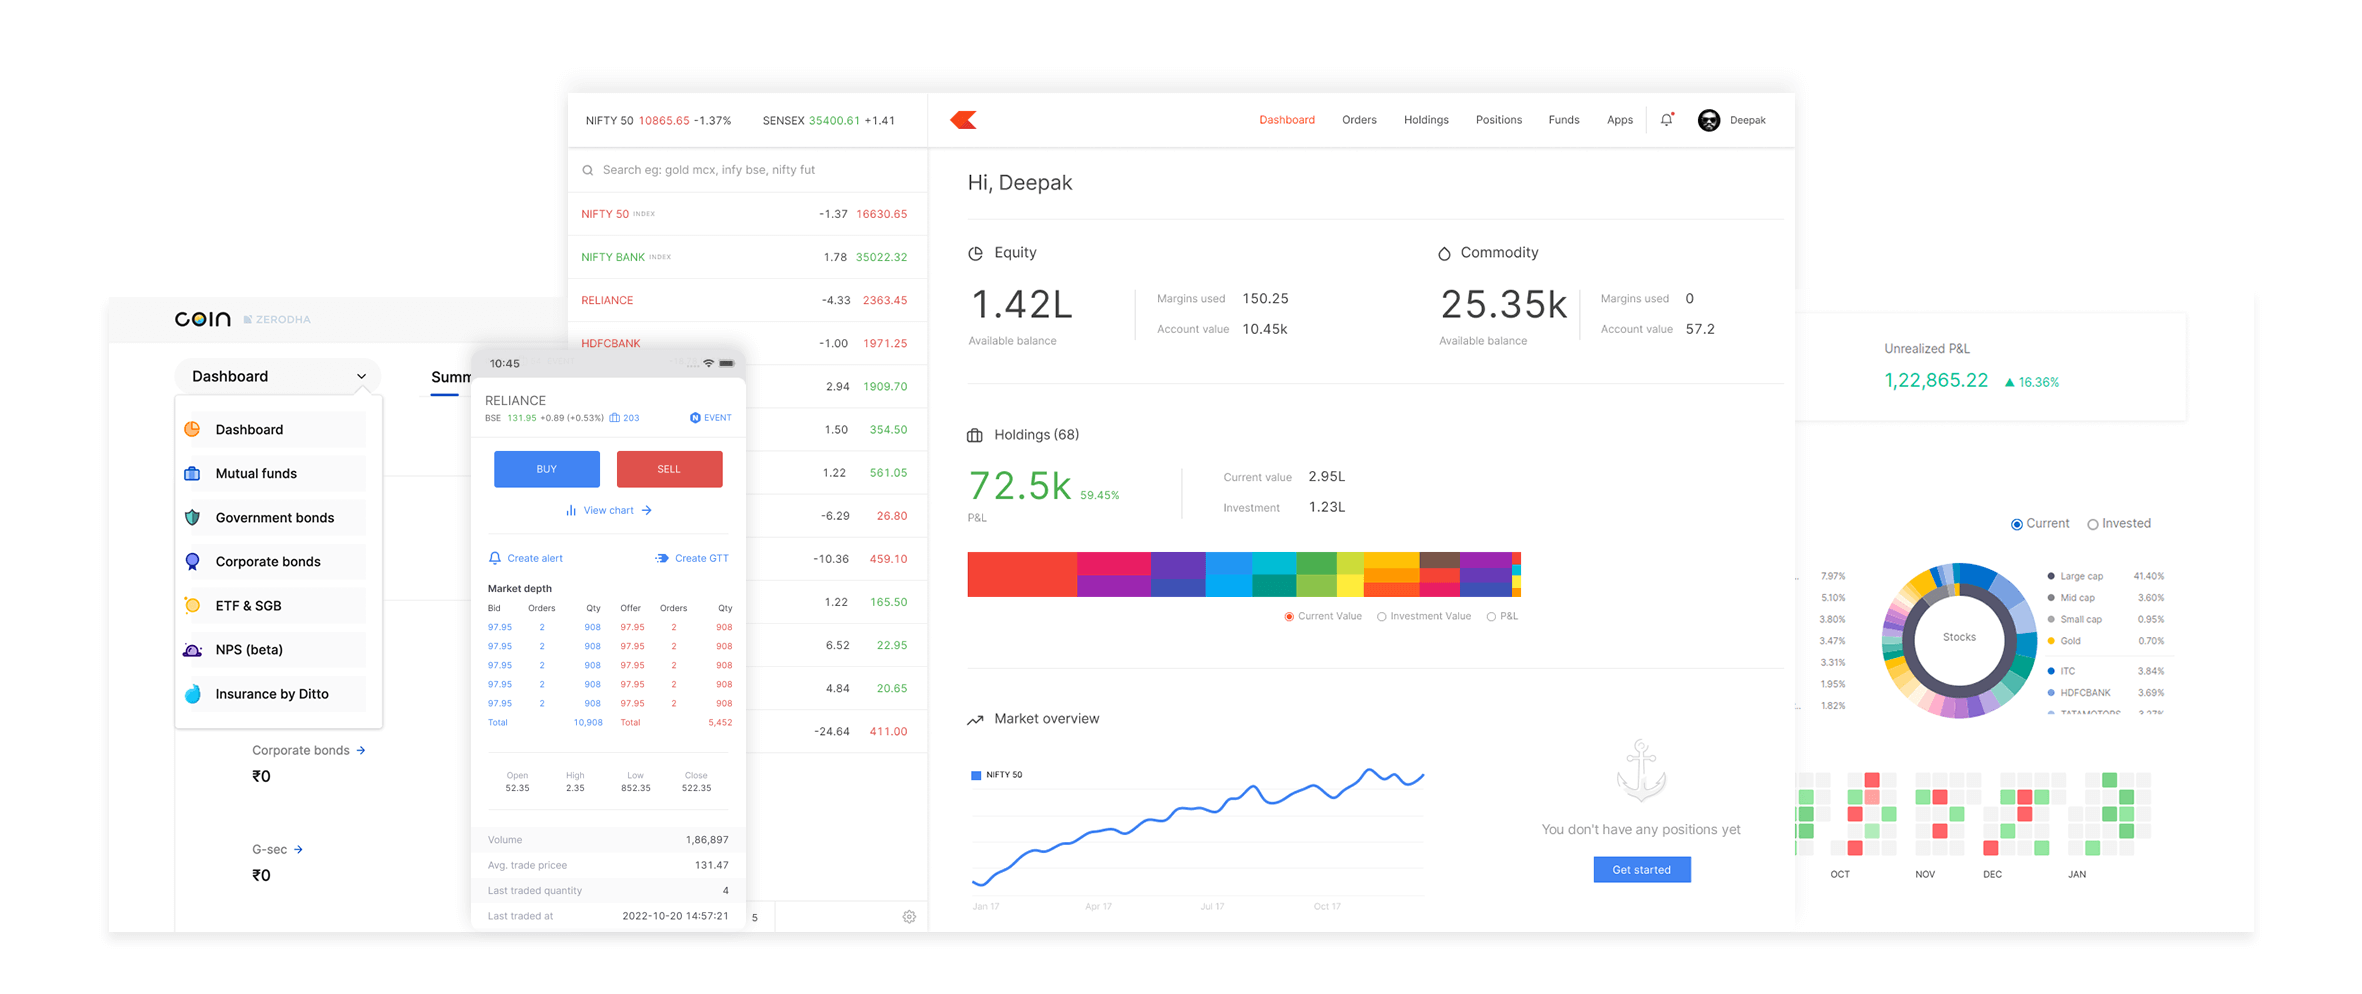
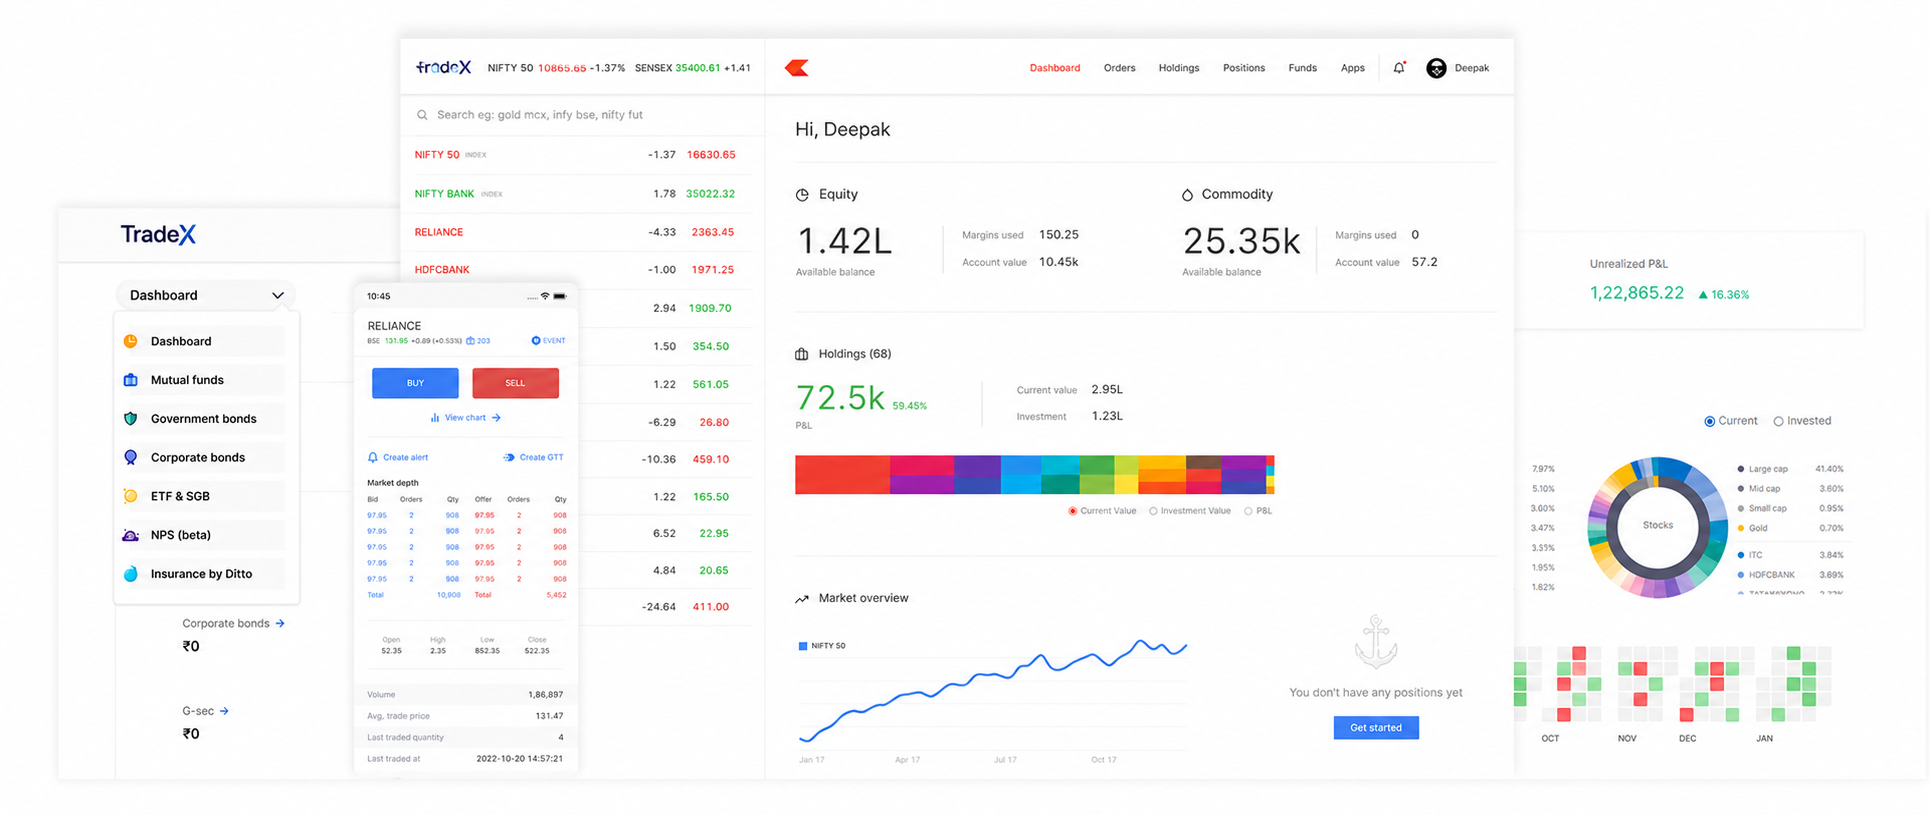
Add pricing page and update landing page

diff --git a/frontend/src/landing_page/pricing/Brokerage.jsx b/frontend/src/landing_page/pricing/Brokerage.jsx
@@ -1,6 +1,26 @@
 function Brokerage() {
     return ( 
-        <h1>Brokerage</h1>
+        <div className="container">
+ <div className="row p-5 mt-5 border-top">
+    <div className="col-8 ">
+<a href="" style={{textDecoration:"none"}}><h3 className="fs-4  text-center">Brokerage calculator</h3></a>
+<br />
+<ul style={{textAlign:"left",lineHeight:"2.2rem" ,fontSize:"14px"}} className="text-muted">
+  <li>Call & Trade and RMS auto-squareoff: Additional charges of ₹50 + GST per order.</li>
+  <li>Digital contract notes will be sent via e-mail.</li>
+  <li>Physical copies of contract notes, if required, shall be charged ₹20 per contract note. Courier charges apply.</li>
+  <li>For NRI account (non-PIS), 0.5% or ₹100 per executed order for equity (whichever is lower).</li>
+  <li>For NRI account (PIS), 0.5% or ₹200 per executed order for equity (whichever is lower).</li>
+  <li>If the account is in debit balance, any order placed will be charged ₹40 per executed order instead of ₹20 per executed order.</li>
+</ul>
+    </div>
+    <div className="col-4">
+<a href="" style={{textDecoration:"none"}}><h3 className="fs-4  text-center">List of charges</h3></a>
+<br />
+    </div>
+    
+/</div>
+        </div>
      );
 }
 

diff --git a/frontend/src/landing_page/pricing/Hero.jsx b/frontend/src/landing_page/pricing/Hero.jsx
@@ -1,6 +1,38 @@
 function Hero() {
     return ( 
-        <h1>hero</h1>
+        <div className="container">
+        <div className="row p-5 border-bottom text-center mt-5">
+        <h1>Pricing </h1>
+        <h4 className="text-muted fs-5 mt-3">Free equity investment and flat ₹20 Intraday and F&O</h4>
+</div>
+ <div className="row p-5 mt-5">
+    <div className="col-4" p-5>
+        <img src="images/pricingEquity.svg" alt="" />
+      
+<h3>Free equity delivery</h3><br />
+<p  className="text-muted ">
+  All equity delivery investments (NSE, BSE), are absolutely free — ₹0 brokerage.
+</p>
+    </div>
+    <div className="col-4" p-5>
+        <img src="images/intradayTrades.svg" alt="" />
+      
+<h3>Intraday and F&O trades</h3><br />
+<p className="text-muted">
+  Flat ₹20 or 0.03% (whichever is lower) per executed order on intraday
+  trades across equity, currency, and commodity trades.
+</p></div> 
+    <div className="col-4" p-5>
+              <img src="images/pricingEquity.svg" alt="" />
+
+       
+<h3>Free direct MF</h3><br />
+<p  className="text-muted">
+  All direct mutual fund investments are absolutely free — ₹0 commission.
+</p>
+    </div>
+ </div>
+ </div>
      );
 }
 

diff --git a/frontend/src/landing_page/home/Stats.jsx b/frontend/src/landing_page/home/Stats.jsx
@@ -14,10 +14,10 @@ function Stats() {
              <p className='text-muted'>With initiatives like Nudge and Kill Switch, we don't just facilitate transactions, but actively help you do better with your money.</p>
             </div>
             <div className="col-6 p-5">
-                <img src="images/ecosystem.png" style={{width:"90%"}}/>
+                <img src="images/ecosystem.png" style={{width:"90%" ,marginLeft:"60px"}}/>
                <div className="text-center">
                  <a href="" className='mx-5' style={{textDecoration:"none"}}>Explore our products <i className="fa fa-long-arrow-right" aria-hidden="true"></i></a>
-                <a href=""  style={{textDecoration:"none"}} >Try Kite demo <i className="fa fa-long-arrow-right" aria-hidden="true"></i></a>
+                <a href=""  style={{textDecoration:"none"}} >Try  demo <i className="fa fa-long-arrow-right" aria-hidden="true"></i></a>
                </div>
             </div>
         </div>

diff --git a/frontend/src/landing_page/pricing/PricingPage.jsx b/frontend/src/landing_page/pricing/PricingPage.jsx
@@ -1,10 +1,11 @@
 import Brokerage from "./Brokerage";
 import Hero from "./Hero";
-
+import OpenAccount from "../OpenAccount"
 function PricingPage() {
     return ( 
        <div>
         <Hero/>
+        <OpenAccount />
         <Brokerage/>
        </div>
      );
